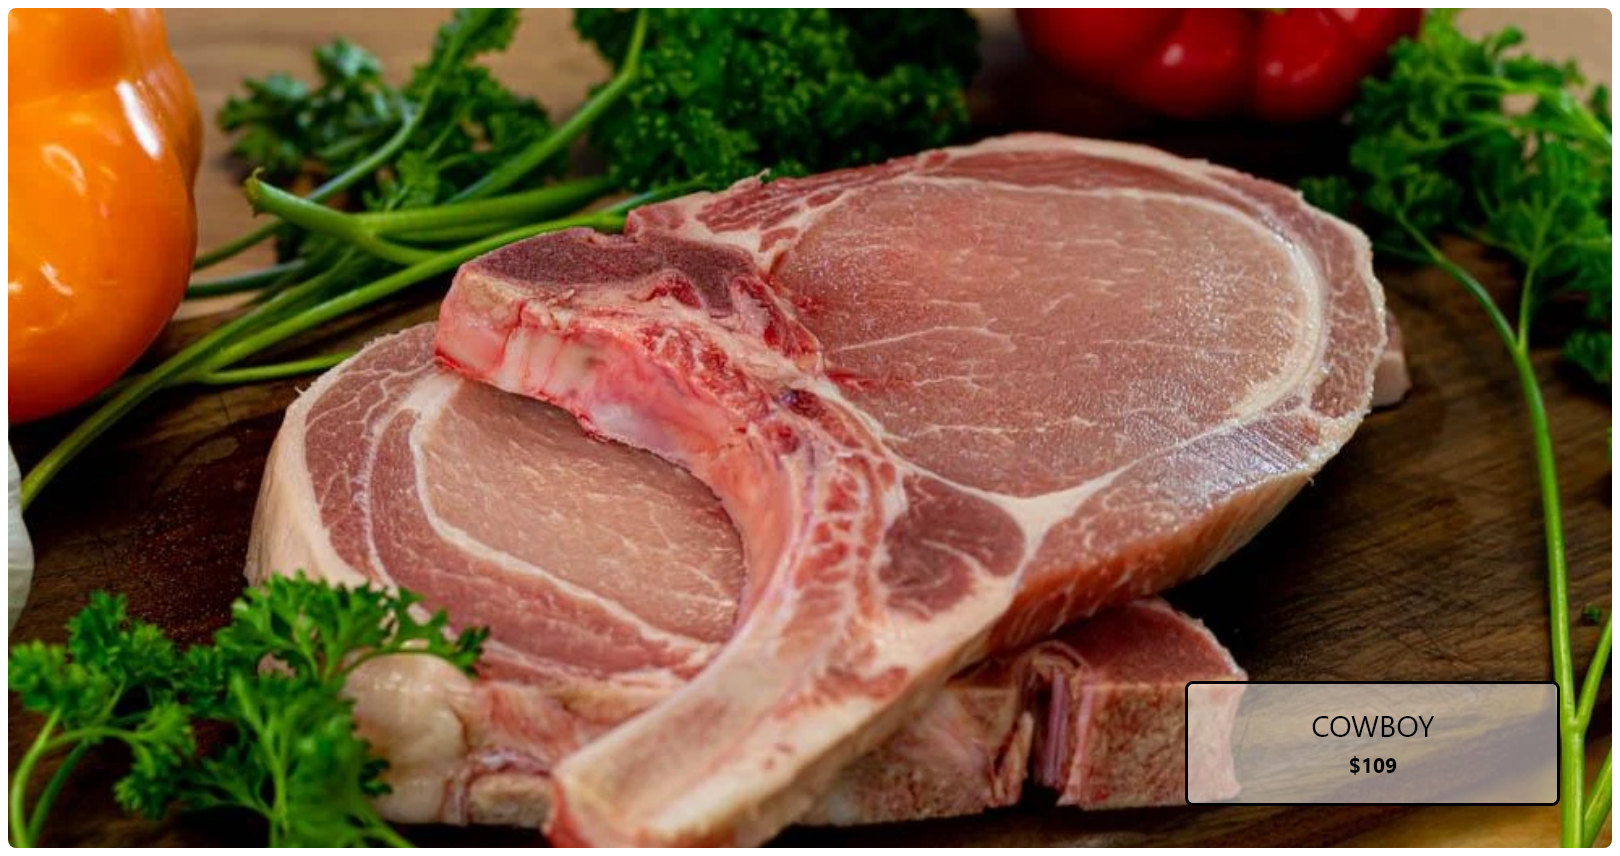
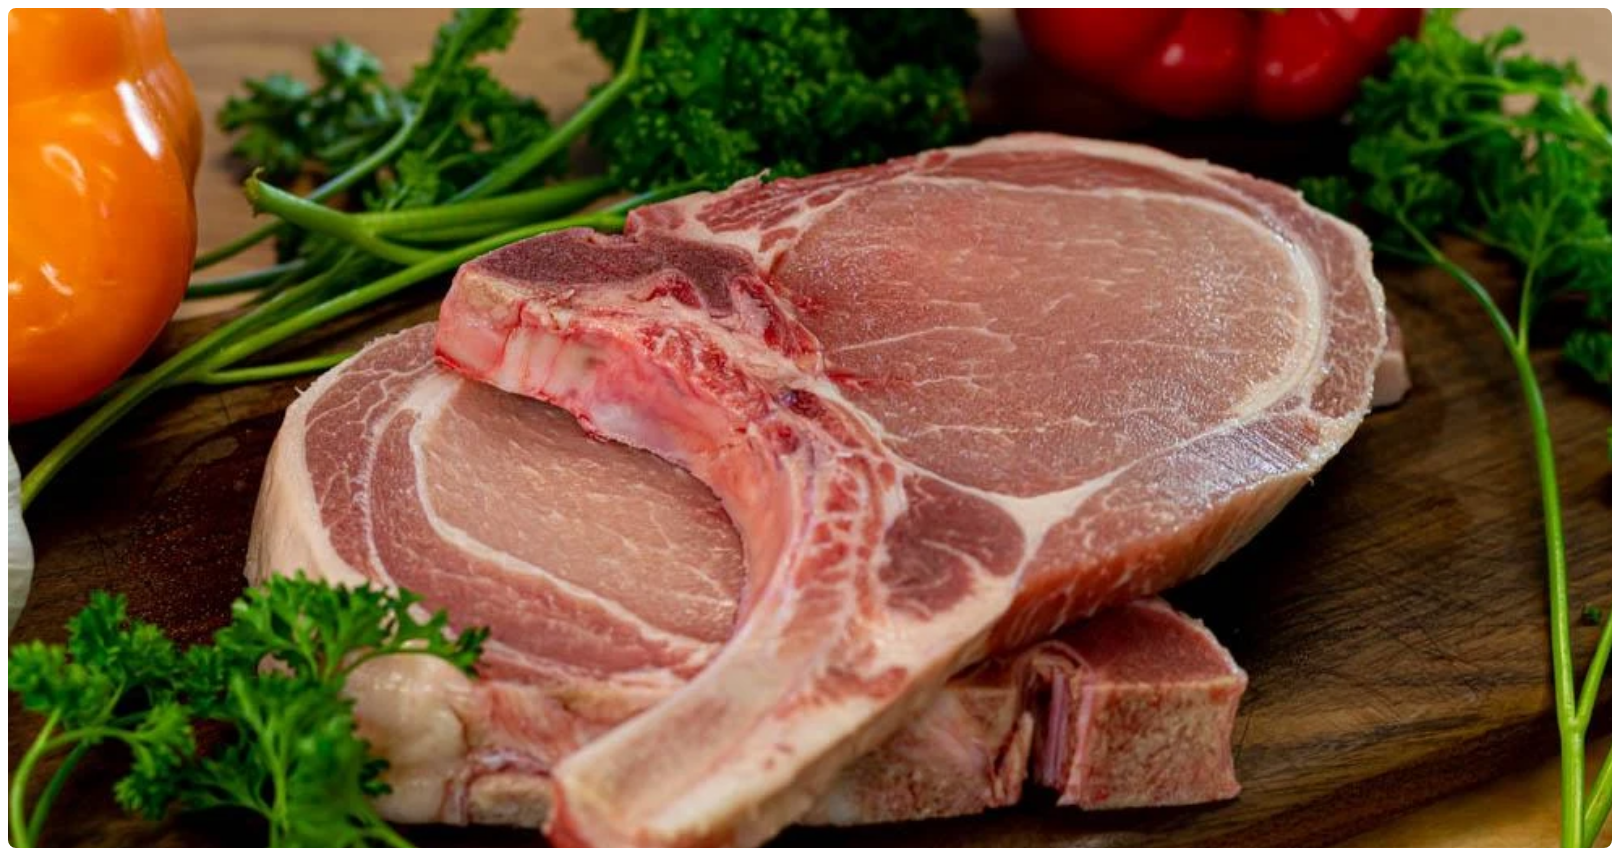
Add Product Section On Home Page

Changed region(s): [[0.7099, 0.7897, 0.9877, 0.9416]]

diff --git a/index.html b/index.html
@@ -66,6 +66,7 @@
     </header>
 
     <main class="home">
+        
         <!-- Main Banner -->
         <section class="mbs-section" style="background-image: url('./assets/img/main-banner.png');">
             <div class="container">
@@ -77,6 +78,108 @@
                 </div>
             </div>
         </section>
+
+        <!-- Product Section -->
+        <section class="pss-section">
+            <div class="container">
+                <div class="pss-content">
+
+                    <div class="pss-box">
+                        <div class="bg-product">
+                            <img src="./assets/img/bg1-product.png" alt="">
+                            <a href="" class="bg-product-btn">
+                                <span class="bg-name">Buckaroo</span>
+                                <span class="bg-price">$74.99</span>
+                            </a>
+                        </div>
+    
+                        <div class="grid-product">
+                            <div class="product-box">
+                                <div class="pro-img">
+                                    <a href=""><img src="./assets/img/p1.png" alt=""></a>
+                                </div>
+                                <h6><a href="">Beef Marrow Bones</a></h6>
+                                <p class="price-btn">$15.80</p>
+                            </div>
+                            <div class="product-box">
+                                <div class="pro-img">
+                                    <a href=""><img src="./assets/img/p2.png" alt=""></a>
+                                </div>
+                                <h6><a href="">8 Primal Cuts</a></h6>
+                                <p class="price-btn">$37</p>
+                            </div>
+                            <div class="product-box">
+                                <div class="pro-img">
+                                    <a href=""><img src="./assets/img/p3.png" alt=""></a>
+                                </div>
+                                <h6><a href="">Grass Fed Beef Box (10 lbs)</a></h6>
+                                <p class="price-btn">$109</p>
+                            </div>
+                            <div class="product-box">
+                                <div class="pro-img">
+                                    <a href=""><img src="./assets/img/p4.png" alt=""></a>
+                                </div>
+                                <h6><a href="">Grass Fed Beef Box (20 lbs)</a></h6>
+                                <p class="price-btn">$220</p>
+                            </div>
+                        </div>
+                    </div>
+
+                    <div class="pss-box">
+                        <div class="bg-product">
+                            <img src="./assets/img/bg2-product.png" alt="">
+                            <a href="" class="bg-product-btn">
+                                <span class="bg-name">COWBOY</span>
+                                <span class="bg-price">$109</span>
+                            </a>
+                        </div>
+    
+                        <div class="grid-product">
+                            <div class="product-box">
+                                <div class="pro-img">
+                                    <a href=""><img src="./assets/img/p1.png" alt=""></a>
+                                </div>
+                                <h6><a href="">Beef Marrow Bones</a></h6>
+                                <p class="price-btn">$15.80</p>
+                            </div>
+                            <div class="product-box">
+                                <div class="pro-img">
+                                    <a href=""><img src="./assets/img/p2.png" alt=""></a>
+                                </div>
+                                <h6><a href="">8 Primal Cuts</a></h6>
+                                <p class="price-btn">$37</p>
+                            </div>
+                            <div class="product-box">
+                                <div class="pro-img">
+                                    <a href=""><img src="./assets/img/p3.png" alt=""></a>
+                                </div>
+                                <h6><a href="">Grass Fed Beef Box (10 lbs)</a></h6>
+                                <p class="price-btn">$109</p>
+                            </div>
+                            <div class="product-box">
+                                <div class="pro-img">
+                                    <a href=""><img src="./assets/img/p4.png" alt=""></a>
+                                </div>
+                                <h6><a href="">Grass Fed Beef Box (20 lbs)</a></h6>
+                                <p class="price-btn">$220</p>
+                            </div>
+                        </div>
+                    </div>
+
+                    <div class="pss-box">
+                        <div class="bg-product">
+                            <img src="./assets/img/bg3-product.png" alt="">
+                            <a href="" class="bg-product-btn">
+                                <span class="bg-name">WRANGLER</span>
+                                <span class="bg-price">$37</span>
+                            </a>
+                        </div>
+                    </div>
+
+                </div>
+            </div>
+        </section>
+
     </main>
 
 

diff --git a/assets/css/all.css b/assets/css/all.css
@@ -53,19 +53,19 @@ h1{
 }
 h2{
     font-size: 42px;
-    font-weight: 700;
+    font-family: 'Portico-Regular';
 }
 h3{
-    font-size: 36px;
-    font-weight: 700;
+    font-size: 30px;
+    font-family: 'Portico-Diablo';
 }
 h4{
-    font-size: 30px;
-    font-weight: 700;
+    font-size: 27px;
+    font-family: 'Portico-Diablo';
 }
 h5{
     font-size: 24px;
-    font-weight: 700;
+    font-family: 'Portico-Diablo';
 }
 h6{
     font-size: 21px;
@@ -228,4 +228,124 @@ p{
 }
 .mbc-btn:hover{
     color: #fff;
+}
+
+
+/* Product Section */
+.pss-section{
+    width: 100%;
+    padding: 50px 0px;
+    background-color: #F3F6F6;
+    overflow: hidden;
+}
+
+.bg-product{
+    width: 100%;
+    height: 600px;
+    border: 8px solid #fff;
+    border-radius: 10px;
+    position: relative;
+}
+.bg-product img{
+    width: 100%;
+    height: 100%;
+    object-fit: cover;
+}
+.bg-product-btn {
+    background-color: rgba(255,255,255,0.5);
+    position: absolute;
+    bottom: 50px;
+    left: 50px;
+    border: 3px solid #000;
+    display: flex;
+    flex-direction: column;
+    align-items: center;
+    justify-content: center;
+    width: 375px;
+    height: 125px;
+    border-radius: 8px;
+}
+.bg-name{
+    font-size: 30px;
+    font-family: 'Portico-Diablo';
+    color: #000000;
+}
+.bg-price{
+    font-size: 21px;
+    font-family: 'Optima-bold';
+    color: #000000;
+}
+.grid-product {
+    padding: 50px 0px;
+    display: flex;
+    justify-content: space-between;
+}
+
+.product-box {
+    width: 24%;
+    background-color: #fff;
+    padding: 10px 10px 20px;
+    text-align: center;
+    border-radius: 5px;
+}
+.pro-img img {
+    width: 100%;
+}
+.product-box h6 {
+    padding: 20px 0px 10px;
+    font-size: 14px;
+    font-family: 'Portico-Diablo';
+}
+.product-box h6 a{
+    color: #000;
+}
+.price-btn{
+    font-size: 17px;
+    font-family: 'Optima-bold';
+    color: #000;
+}
+.pss-box:nth-child(2) .bg-product-btn {
+    right: 50px !important;
+    left: unset !important;
+}
+
+.pss-box{
+    position: relative;
+    z-index: 99;
+}
+.pss-box:nth-child(1):before{
+    content: '';
+    position: absolute;
+    top: -40px;
+    left: -60px;
+    background-image: url(../img/b1.png);
+    width: 100px;
+    height: 100px;
+    background-size: contain;
+    background-repeat: no-repeat;
+    z-index: -1;
+}
+.pss-box:nth-child(2):before{
+    content: '';
+    position: absolute;
+    bottom: 380px;
+    right: -180px;
+    background-image: url(../img/b2.png);
+    width: 200px;
+    height: 200px;
+    background-size: contain;
+    background-repeat: no-repeat;
+    z-index: -1;
+}
+.pss-box:nth-child(3):before{
+    content: '';
+    position: absolute;
+    top: 20px;
+    left: -70px;
+    background-image: url(../img/b3.png);
+    width: 100px;
+    height: 100px;
+    background-size: contain;
+    background-repeat: no-repeat;
+    z-index: -1;
 }
